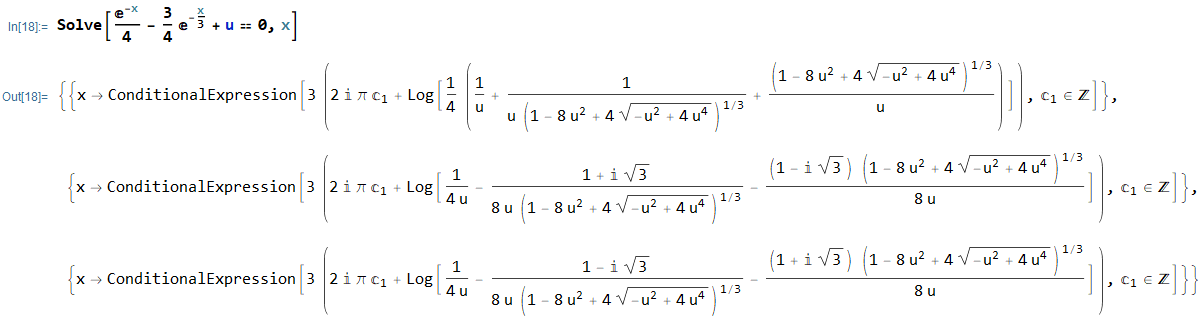
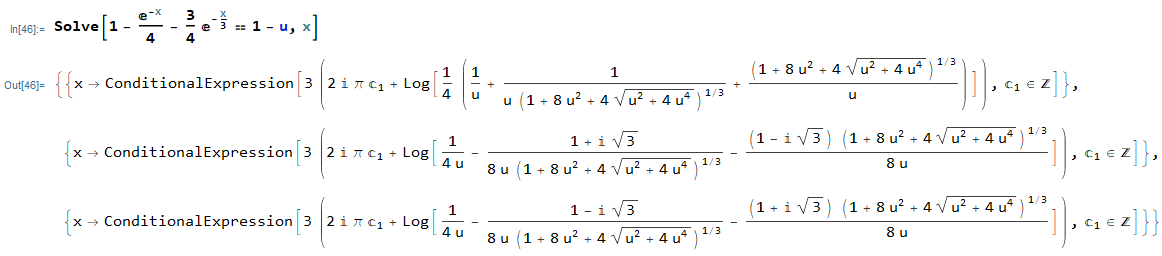
Add missing minus sign

diff --git a/post/sampling-diffusion/index.html b/post/sampling-diffusion/index.html
@@ -119,16 +119,32 @@ $$</p>
 
 <p>To get rid of the imaginary part, we can set the free constant \(c_{1} = 0\), which results in the following inverse:</p>
 
-<p>$$ \tag{5} x = s r = 3 \log{\Bigg(\frac{1 + G(u)^{1/3} + G(u)^{-1/3}}{4 u} \Bigg)}, $$</p>
+<p>$$ \tag{5} x = s r = 3 \log{\Bigg(\frac{1 + G(u)^{-1/3} + G(u)^{1/3}}{4 u} \Bigg)}, $$</p>
 
 <p>where</p>
 
-<p>$$ \tag{6} G(u) = 1 - 8 u^2 + 4 \sqrt{u^2 (4 u^2 - 1)}. $$</p>
+<p>$$ \tag{6} G(u) = 1 + 4 u \Big( \sqrt{1 + 4 u^2} + 2 u \Big). $$</p>
 
 <p>We can then uniformly sample either the complementary or the regular CDF - it makes no difference.</p>
+
+<h2 id="acknowledgments">Acknowledgments</h2>
+
+<p>I would like to thank <a href="https://twitter.com/stirners_ghost">@stirners_ghost</a> for informing me that the CDF is invertible, and Brent Burley for spotting a missing minus sign in the derivation.</p>
         </div>
 
         
+        
+        <div class="article-toc" style="display:none;">
+            <h3>Contents</h3>
+            <nav id="TableOfContents">
+<ul>
+<li>
+<ul>
+<li><a href="#acknowledgments">Acknowledgments</a></li>
+</ul></li>
+</ul>
+</nav>
+        </div>
         
         
 

diff --git a/_source_/content/post/sampling-diffusion.md b/_source_/content/post/sampling-diffusion.md
@@ -45,10 +45,14 @@ The trick is to solve for the complimentary CDF \\(u = 1 - y\\) instead:
 
 To get rid of the imaginary part, we can set the free constant \\(c_{1} = 0\\), which results in the following inverse:
 
-$$ \tag{5} x = s r = 3 \log{\Bigg(\frac{1 + G(u)^{1/3} + G(u)^{-1/3}}{4 u} \Bigg)}, $$
+$$ \tag{5} x = s r = 3 \log{\Bigg(\frac{1 + G(u)^{-1/3} + G(u)^{1/3}}{4 u} \Bigg)}, $$
 
 where
 
-$$ \tag{6} G(u) = 1 - 8 u^2 + 4 \sqrt{u^2 (4 u^2 - 1)}. $$
+$$ \tag{6} G(u) = 1 + 4 u \Big( \sqrt{1 + 4 u^2} + 2 u \Big). $$
 
 We can then uniformly sample either the complementary or the regular CDF - it makes no difference.
+
+## Acknowledgments
+
+I would like to thank [@stirners_ghost](https://twitter.com/stirners_ghost) for informing me that the CDF is invertible, and Brent Burley for spotting a missing minus sign in the derivation.
